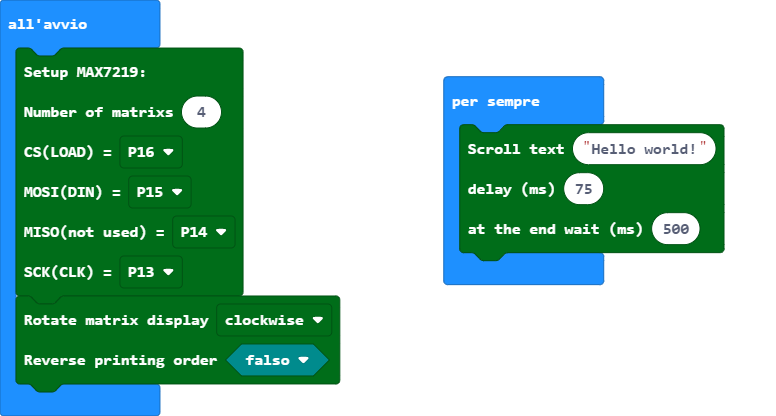
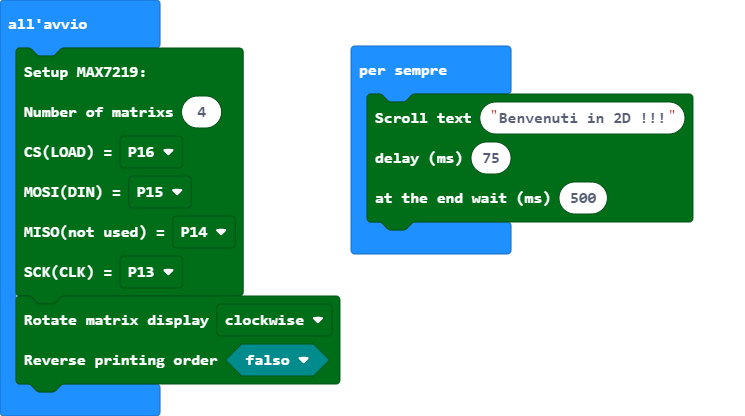
Aggiorna main.blocks, main.ts

diff --git a/main.ts b/main.ts
@@ -11,7 +11,7 @@ false
 )
 basic.forever(function () {
     max7219_matrix.scrollText(
-    "Hello world!",
+    "Benvenuti in 2D !!!",
     75,
     500
     )
